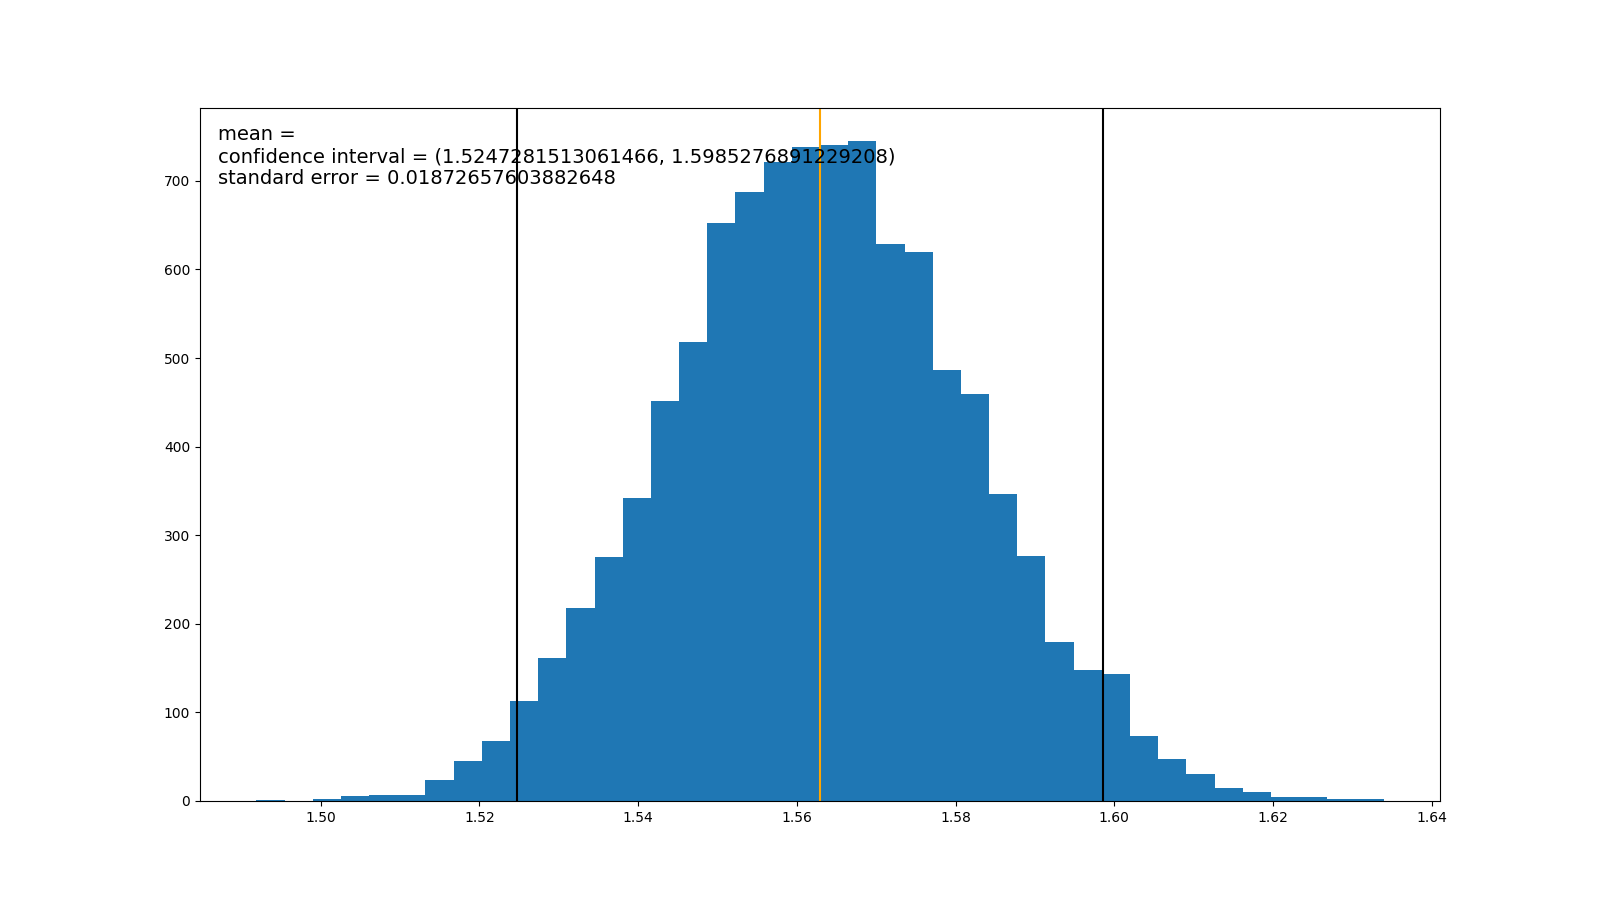
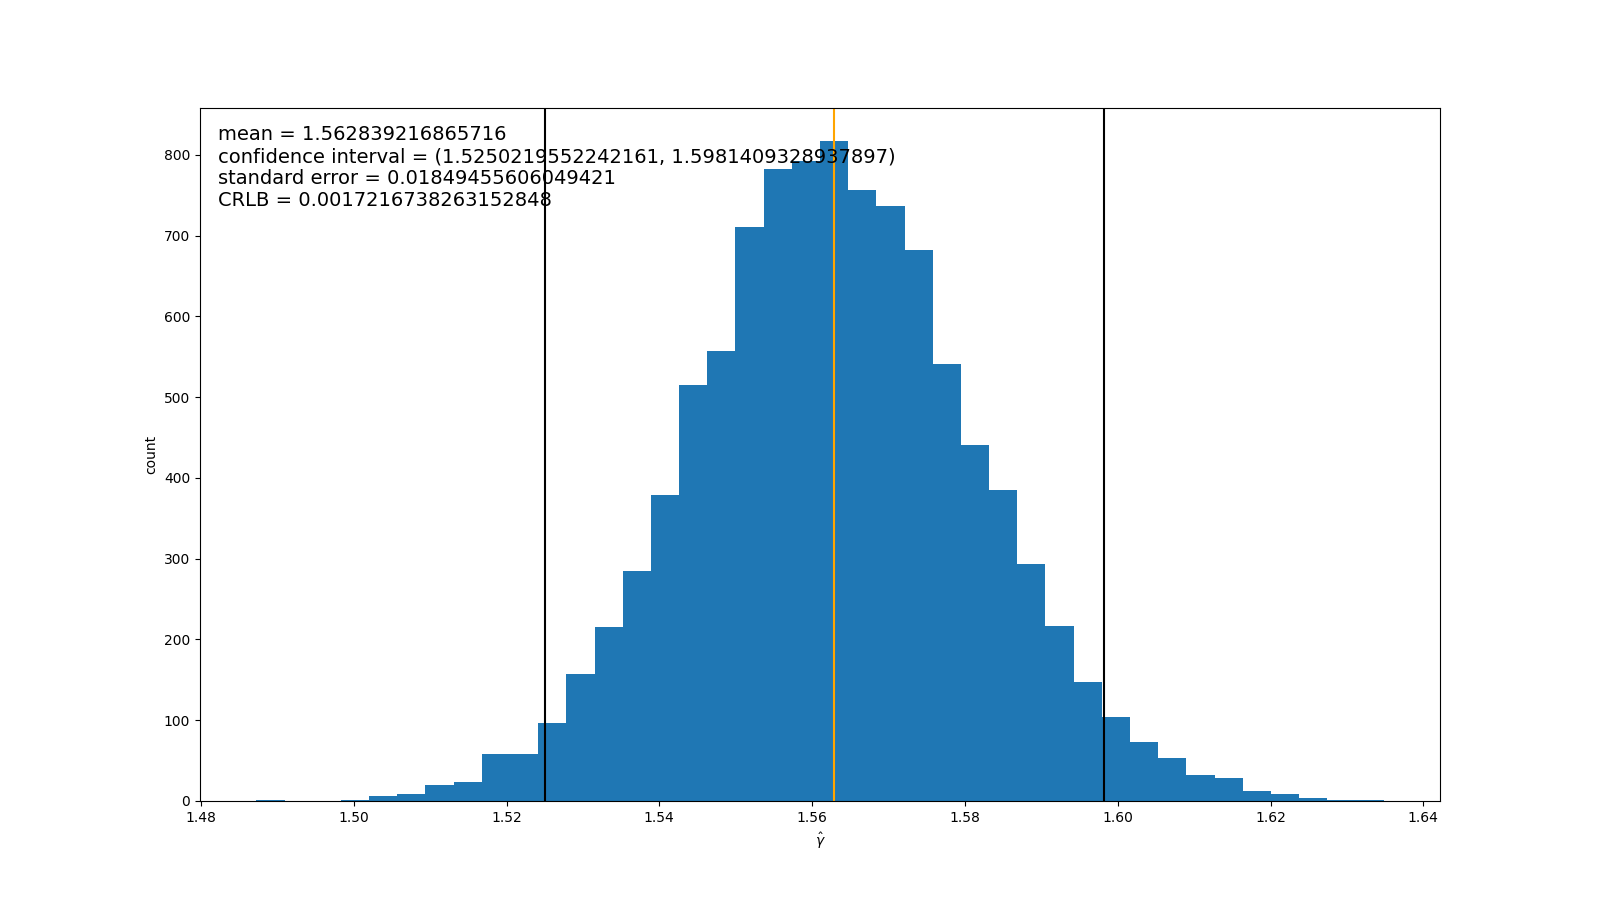
added cramer rao lower bound calculation and show on axis, as well as axis labels

diff --git a/sheet_1/q2.py b/sheet_1/q2.py
@@ -14,10 +14,13 @@ bootstrap_res = scipy.stats.bootstrap(data=(data,), statistic=gamma, n_resamples
 mean = np.mean(bootstrap_res.bootstrap_distribution)
 confidence_interval = (bootstrap_res.confidence_interval[0], bootstrap_res.confidence_interval[1])
 standard_error = bootstrap_res.standard_error
+cramer_rao_lower_bound = (mean - 1)**2 / len(data)
 
-info_on_ax = 'mean = ' + str() + \
+info_on_ax = 'mean = ' + str(mean) + \
              '\nconfidence interval = ' + str(confidence_interval) + \
-             '\nstandard error = ' + str(standard_error)
+             '\nstandard error = ' + str(standard_error) + \
+             '\nCRLB = ' + str(cramer_rao_lower_bound)
+
 info_fontsize = 14
 info_loc = 'upper left'
 
@@ -31,6 +34,9 @@ ax.add_artist(ax_text)
 ax.axvline(mean, c='orange')
 ax.axvline(confidence_interval[0], c='black')
 ax.axvline(confidence_interval[1], c='black')
+
+ax.set_ylabel('count')
+ax.set_xlabel(r'$\hat{\gamma}$')
 
 plt.savefig('q2_bootstrap_histogram')
 
